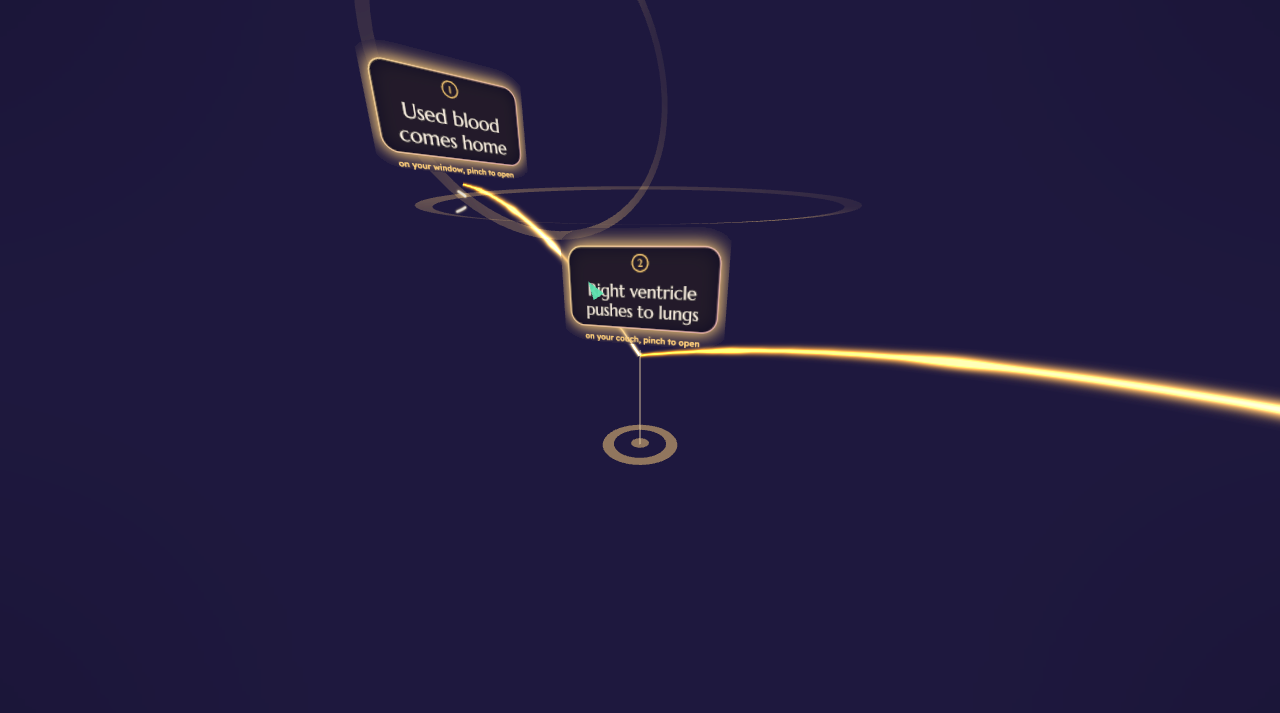
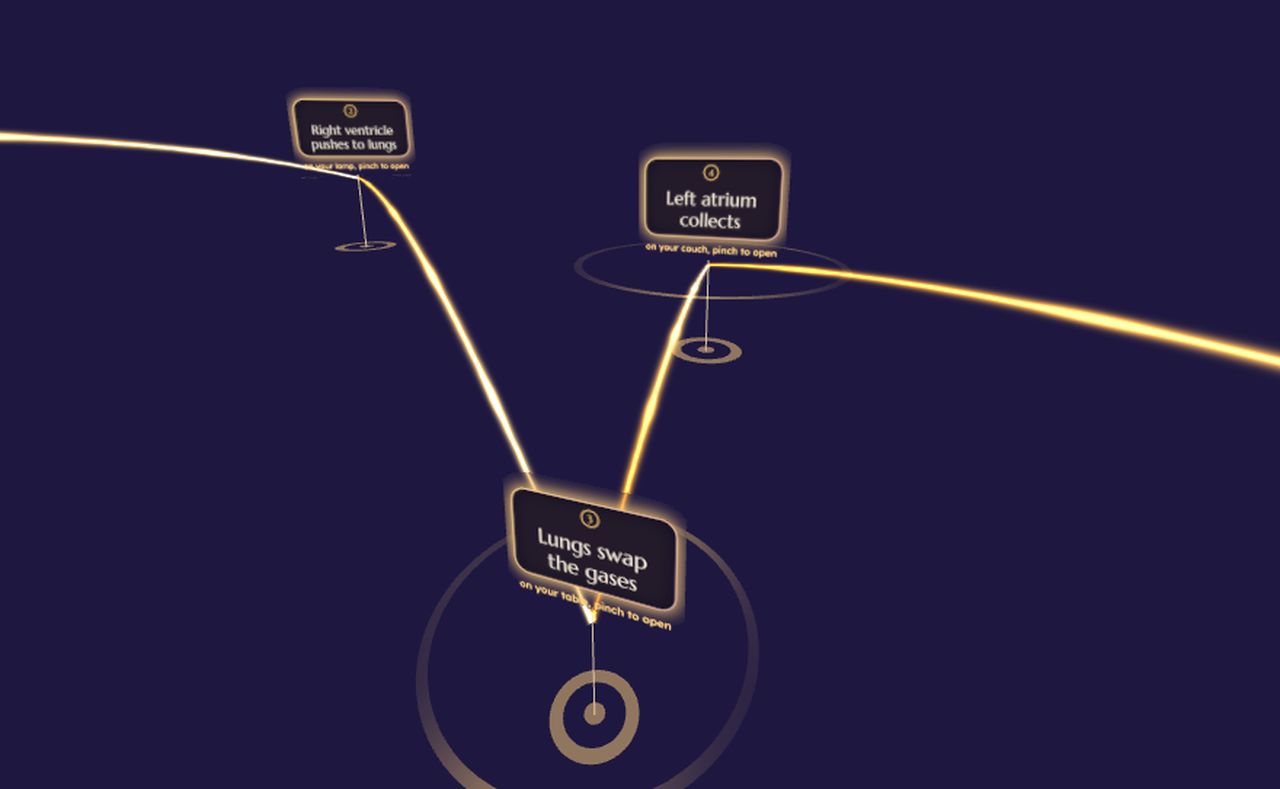
New lead shots; guide arrow stays away while a stage is in view; long next-stage links wrap on the card

diff --git a/src/xr/guide-system.ts b/src/xr/guide-system.ts
@@ -18,6 +18,8 @@ import { PalaceSystem, type TileRecord } from './palace-system.js';
 
 /** Half-angle (deg) inside which a memory counts as "in view". */
 const VIEW_HALF_ANGLE = 30;
+/** A stage this close to the centre of view is being read, so the arrow stays away. */
+const READING_HALF_ANGLE_RAD = (15 * Math.PI) / 180;
 const CHEVRON_DISTANCE = 0.6;
 // About 21 degrees off centre: at the edge of vision, clear of whatever you are reading.
 const CHEVRON_RADIUS = 0.23;
@@ -73,7 +75,7 @@ export class GuideSystem extends createSystem({ tiles: { required: [MemoryTile] 
     const angle = (this.camFwd.angleTo(this.toTarget) * 180) / Math.PI;
 
     // While a card is open you are reading it; the arrow can wait.
-    if (angle <= VIEW_HALF_ANGLE || this.reading()) {
+    if (angle <= VIEW_HALF_ANGLE || this.reading() || this.lookingAtAStage()) {
       this.fadeChevron(delta, 0);
       return;
     }
@@ -103,6 +105,17 @@ export class GuideSystem extends createSystem({ tiles: { required: [MemoryTile] 
     for (const rec of this.palaceSys.records.values()) {
       const f = rec.entity.getValue(MemoryTile, 'face');
       if (f !== undefined && f !== TileFace.Cue && f !== TileFace.Learn) return true;
+    }
+    return false;
+  }
+
+  private probe = new Vector3();
+  /** True when any stage sits near the centre of view: you are reading it, and the thread leads on. */
+  private lookingAtAStage(): boolean {
+    for (const rec of this.palaceSys.records.values()) {
+      if (!rec.tile.root.visible) continue;
+      rec.tile.root.getWorldPosition(this.probe).sub(this.camPos);
+      if (this.camFwd.angleTo(this.probe) < READING_HALF_ANGLE_RAD) return true;
     }
     return false;
   }

diff --git a/src/xr/tile-art.ts b/src/xr/tile-art.ts
@@ -311,7 +311,7 @@ function drawConcept(ctx: CanvasRenderingContext2D, item: MemoryItem, face: Face
     // As large as fits: this line is read from across the room.
     let px = 36;
     ctx.font = `500 ${px}px ${UI_FONT}`;
-    while (px > 26 && ctx.measureText(text).width > w - 44) ctx.font = `500 ${(px -= 2)}px ${UI_FONT}`;
+    while (px > 22 && ctx.measureText(text).width > w - 44) ctx.font = `500 ${(px -= 2)}px ${UI_FONT}`;
     ctx.fillText(text, cx, y);
   };
   const left = 60;
@@ -368,9 +368,11 @@ function drawConcept(ctx: CanvasRenderingContext2D, item: MemoryItem, face: Face
     if (item.why) y = block(item.why, y + 4, 25, 19, 3, style.contrast ? '#fff' : LILAC);
     if (item.doubt) y = block(`Double-check: ${item.doubt}`, y + 4, 21, 17, 2, accent, 500);
     else if (item.checked) y = block('Fact-checked: nothing wrong found.', y + 4, 21, 17, 1, style.contrast ? '#fff' : C.mint, 500);
-    const room = Math.floor((h - 120 - y) / 30);
+    const room = Math.floor((h - (item.link && style.next ? 150 : 120) - y) / 30);
     if (room >= 1) block(item.scene, y + 4, 23, 19, Math.min(3, room), soft, 300);
-    hint(item.link && style.next ? `${item.link} → ${style.next}` : style.dwell ? 'look away to close' : 'pinch to close', h - 52);
+    // The link to the next stage can run long: wrap it rather than run off the card.
+    if (item.link && style.next) block(`${item.link} → ${style.next}`, h - 104, 24, 18, 2, accent, 500);
+    else hint(style.dwell ? 'look away to close' : 'pinch to close', h - 52);
     return;
   }
 

diff --git a/docs/DEVPOST.md b/docs/DEVPOST.md
@@ -4,10 +4,11 @@
 
 ## Images to upload (in this order)
 
-1. `docs/headset-closeup.png`: a stage on a real couch, the gold thread, the ring of light.
-2. `docs/headset-concept.png`: the whole chain around the room.
-3. `docs/walk-stage.jpg`: the website walk.
-4. `docs/walk-explain-back.jpg`: explain-back graded.
+1. `docs/headset-closeup.png`: stages on the table, couch and lamp of the emulator's living room, joined by the gold thread, with rings of light on the tops they rest on.
+2. `docs/headset-card.png`: a stage pinched open: the claim, why it is true, the fact-check line and the link to the next stage.
+3. `docs/headset-concept.png`: the whole chain around the room.
+4. `docs/walk-stage.jpg`: the website walk.
+5. `docs/walk-explain-back.jpg`: explain-back graded.
 
 ## Tagline
 
@@ -22,7 +23,7 @@ We also wanted to go past memorising lists. Most of what people need to learn is
 ## What it does
 
 - **Ask anything, or paste your notes.** The Palace Architect explains it as 4 to 7 linked stages. Each stage has the claim, *why* it is true, a vivid picture, the link to the next stage, and one common misconception.
-- **Your room becomes the model.** Using Quest scene understanding, each stage lands on a real object: your couch, your lamp, your shelf. A ring of light traces the surface it rests on, and a gold thread joins the stages in causal order, so walking the room is walking the mechanism. When the palace is ready the thread ignites, stage by stage, with rising tones.
+- **Your room becomes the model.** Using Quest scene understanding, each stage lands on a real object: your couch, your lamp, your shelf. A ring of light traces the top it rests on, and a gold thread joins the stages in causal order, so walking the room is walking the mechanism. When the palace is ready the thread ignites, stage by stage, with rising tones.
 - **Learning, not just reading.** Stages rest as small glowing labels with one headline. Pinch to open the full stage. On recall, a stage turns into a myth check: two statements, one true and one a common misconception. Pinch the true one. Wrong answers show the correction and come back sooner.
 - **Rebuild the chain.** The thread goes dark and the numbers hide; pinch the stages in the order things happen and relight it link by link.
 - **It checks its own work.** A second pass fact-checks every generated stage; anything doubtful says what to verify. In our eval it passed all 6 shipped concepts clean and caught 6 of 6 planted errors on the right stage.

diff --git a/README.md b/README.md
@@ -16,7 +16,7 @@ Built with the Immersive Web SDK (WebXR) for the Meta VR Start Developer Competi
 
 ---
 
-<p align="center"><img src="docs/headset-closeup.png" width="49%" alt="In the headset: a stage glows on a real couch, joined to the next by the gold thread, with a ring of light on the surface it rests on." /> <img src="docs/walk-stage.jpg" width="49%" alt="The website walk: a living room drawn in light, with the first stage and its myth check." /></p>
+<p align="center"><img src="docs/headset-closeup.png" width="49%" alt="In the headset (emulator capture): stages glow on the table, couch and lamp, joined by the gold thread, with rings of light on the tops they rest on." /> <img src="docs/walk-stage.jpg" width="49%" alt="The website walk: a living room drawn in light, with the first stage and its myth check." /></p>
 
 ## Try it in 60 seconds
 
